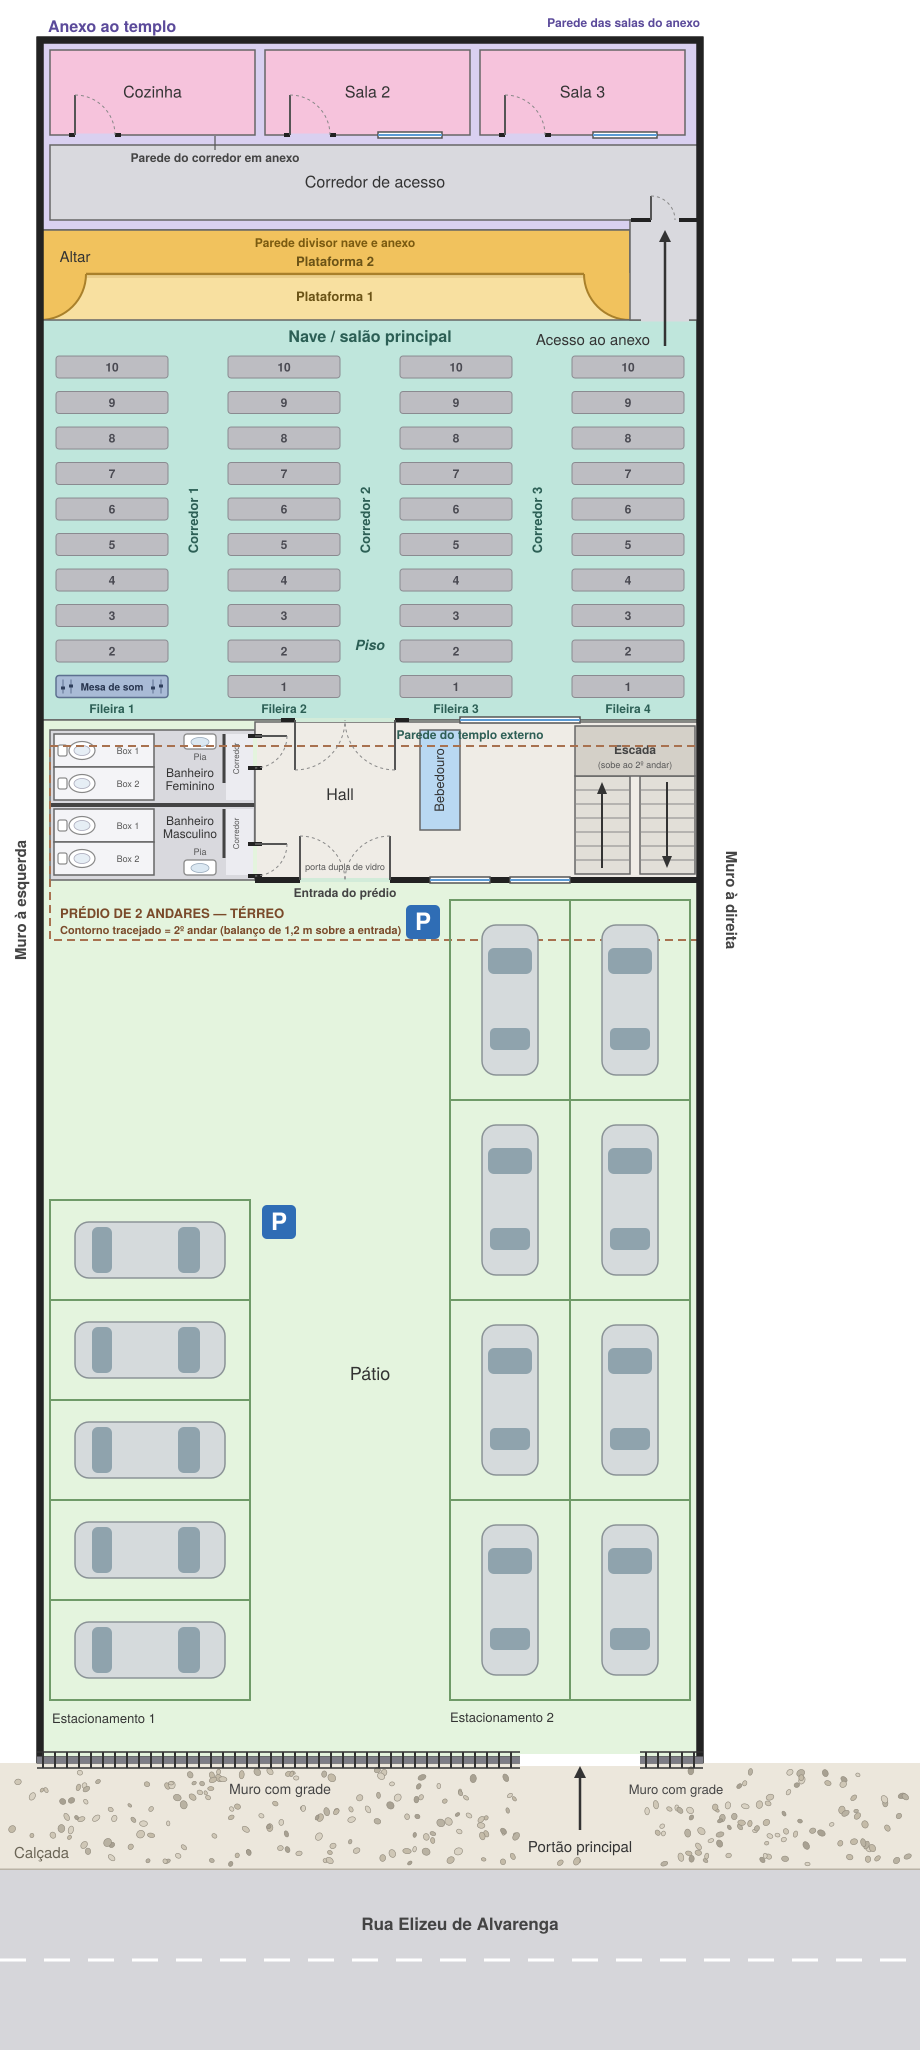
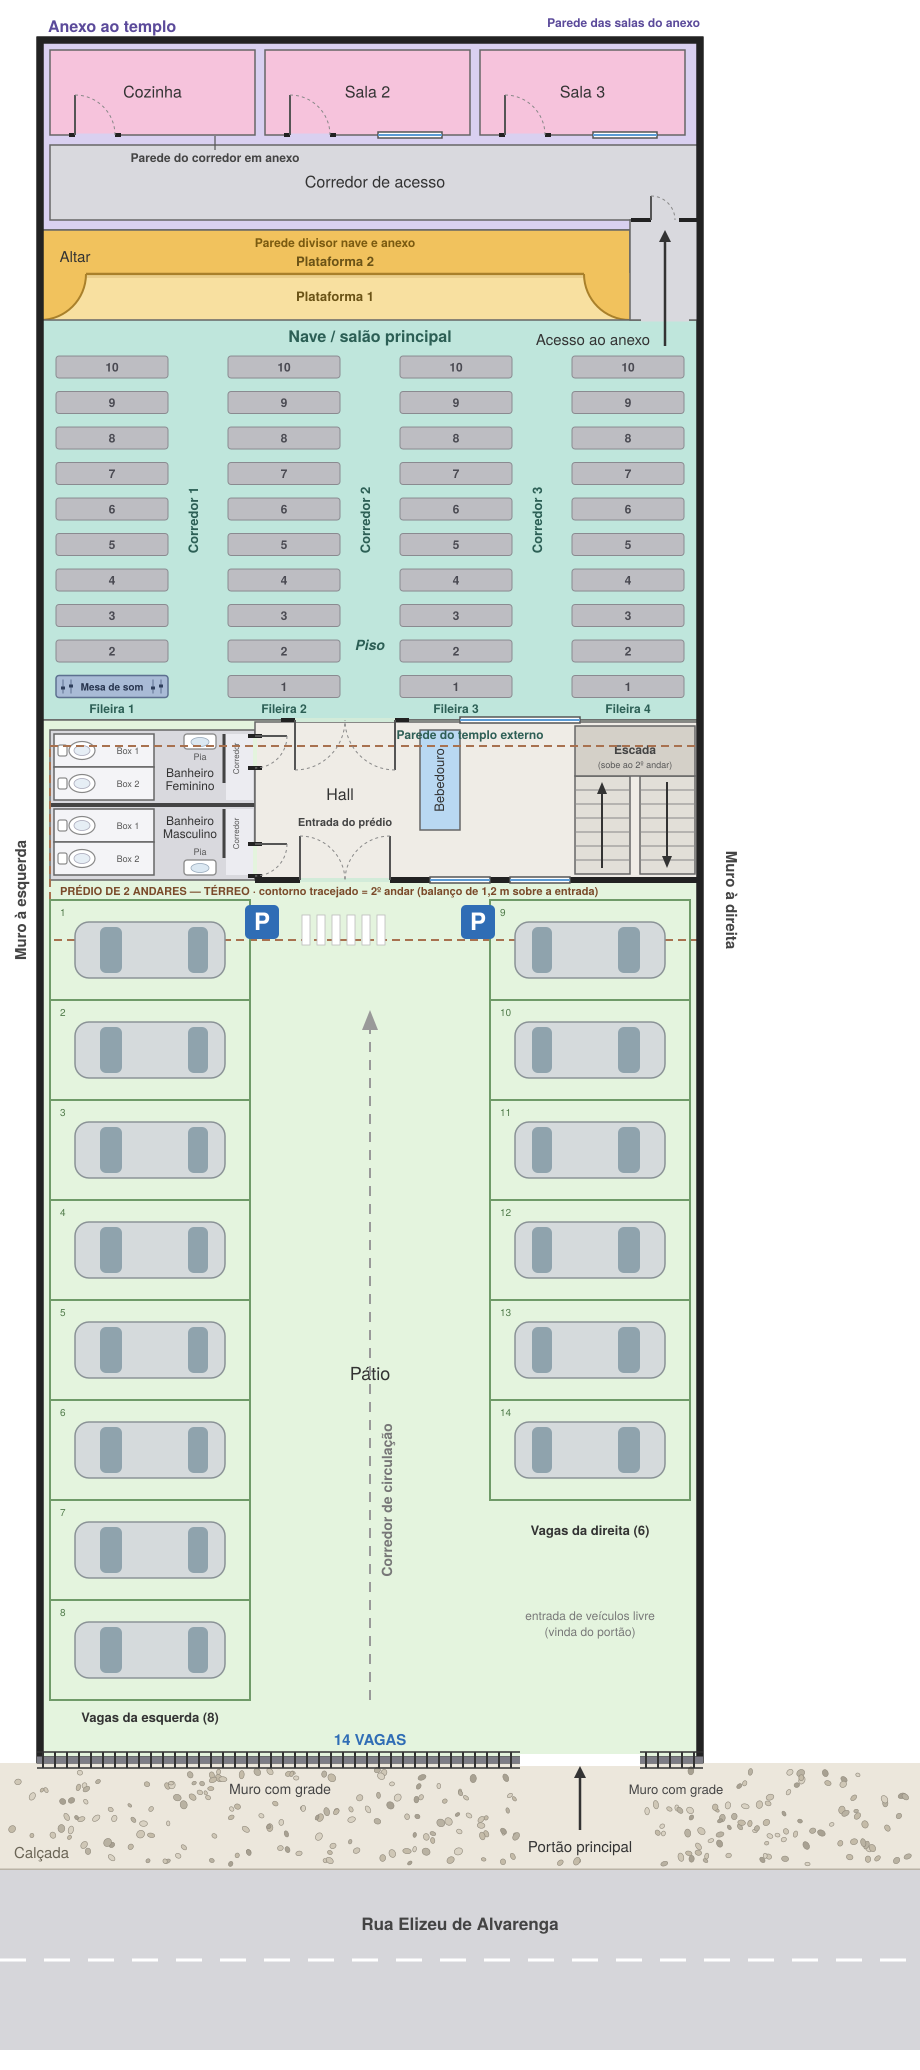
Projeto 1: estacionamento reorganizado com 14 vagas
Claude-Session: https://claude.ai/code/session_015gh4tS64wXyJ2ghbw66cFX

diff --git a/projeto1/maquete.html b/projeto1/maquete.html
@@ -588,16 +588,19 @@
     board.position.set(X(xpx), 2.1, Z(ypx) + 0.06); root.add(board);
     var back = board.clone(); back.rotation.y = Math.PI; back.position.z = Z(ypx) - 0.06; root.add(back);
   }
-  // Estacionamento 1: 5 vagas horizontais (frente para a direita)
-  for (var i = 0; i <= 5; i++) line(50, 1200 + i * 100, 250, 1200 + i * 100);
-  line(50, 1200, 50, 1700); line(250, 1200, 250, 1700);
-  for (var r = 0; r < 5; r++) car(150, 1200 + r * 100 + 50, 0);
-  pSign(279, 1222);
-  // Estacionamento 2: 8 vagas verticais (4 fileiras x 2), frente para a nave (deslocado para trás: começa em y=900)
-  for (var j = 0; j <= 4; j++) line(450, 900 + j * 200, 690, 900 + j * 200);
-  [450, 570, 690].forEach(function(xv){ line(xv, 900, xv, 1700); });
-  for (var rr = 0; rr < 4; rr++) for (var cc = 0; cc < 2; cc++) car(450 + cc * 120 + 60, 900 + rr * 200 + 100, Math.PI / 2);
-  pSign(423, 922);
+  // PROJETO 1 — estacionamento reorganizado: 14 vagas (8 + 6) em 90°, com corredor de circulação no meio.
+  // Lado esquerdo: 8 vagas (x50..250), carros de frente para o muro oeste. Lado direito: 6 vagas (x490..690, y900..1500), carros de frente para o muro leste;
+  // abaixo delas fica livre a entrada de veículos vinda do portão. Corredor de circulação: x250..490.
+  var EY = 900, EP = 100;
+  for (var i = 0; i <= 8; i++) line(50, EY + i * EP, 250, EY + i * EP);
+  line(50, EY, 50, EY + 8 * EP); line(250, EY, 250, EY + 8 * EP);
+  for (var r = 0; r < 8; r++) car(150, EY + r * EP + 50, Math.PI);
+  for (var j = 0; j <= 6; j++) line(490, EY + j * EP, 690, EY + j * EP);
+  line(490, EY, 490, EY + 6 * EP); line(690, EY, 690, EY + 6 * EP);
+  for (var rr = 0; rr < 6; rr++) car(590, EY + rr * EP + 50, 0);
+  pSign(262, 922); pSign(478, 922);
+  // faixa de pedestres na frente da porta do prédio
+  for (var zk = 0; zk < 6; zk++) rect(302 + zk * 15, 915, 302 + zk * 15 + 8, 945, 0.05, 0.012, C.white, { cast: false });
 
   // ---------- Telhados ----------
   var roofMat = new THREE.MeshStandardMaterial({ color: C.roof, roughness: 0.8, side: THREE.DoubleSide });
@@ -792,7 +795,7 @@
   label('Hall', 330, 800, 2.4, 1.2); label('Escada', 635, 826, 3.2, 1.6); label('Entrada do prédio', 345, 884, 3.4, 3.2);
   label('Sala 1 (2º andar)', 178, 817, 5.6, 3.0); label('Sala 2 (2º andar)', 440, 817, 5.6, 3.0); label('Corredor (2º andar)', 300, 914, 4.8, 3.4);
   label('Bebedouro', 440, 780, 2.0, 2.0);
-  label('Estacionamento 1', 150, 1680, 2.2, 3.0); label('Estacionamento 2', 570, 1735, 2.2, 3.0);
+  label('Vagas da esquerda (8)', 150, 1330, 2.2, 3.2); label('Vagas da direita (6)', 590, 1200, 2.2, 3.2); label('Corredor de circulação', 370, 1620, 1.4, 3.6);
   label('Pátio', 370, 1450, 2.4, 1.8);
   label('Portão principal', 580, 1760, 3.8, 3.4);
   label('Calçada', 220, 1815, 1.2, 1.8);

diff --git a/index.html b/index.html
@@ -82,7 +82,7 @@
     </section>
     <section>
       <h2>Projeto 1 — Planta do térreo</h2>
-      <p class="sub">Terreno completo. O contorno tracejado mostra onde fica o 2º andar.</p>
+      <p class="sub">Terreno completo, com o estacionamento reorganizado (14 vagas). O contorno tracejado mostra onde fica o 2º andar.</p>
       <div class="planta"><a href="projeto1/planta_terreo.png" target="_blank" rel="noopener"><img src="projeto1/planta_terreo.png" alt="Planta do térreo do Projeto 1" loading="lazy"></a></div>
       <div class="btns"><a class="btn alt" href="projeto1/planta_terreo.png" download>Baixar a planta do térreo (PNG)</a></div>
     </section>
